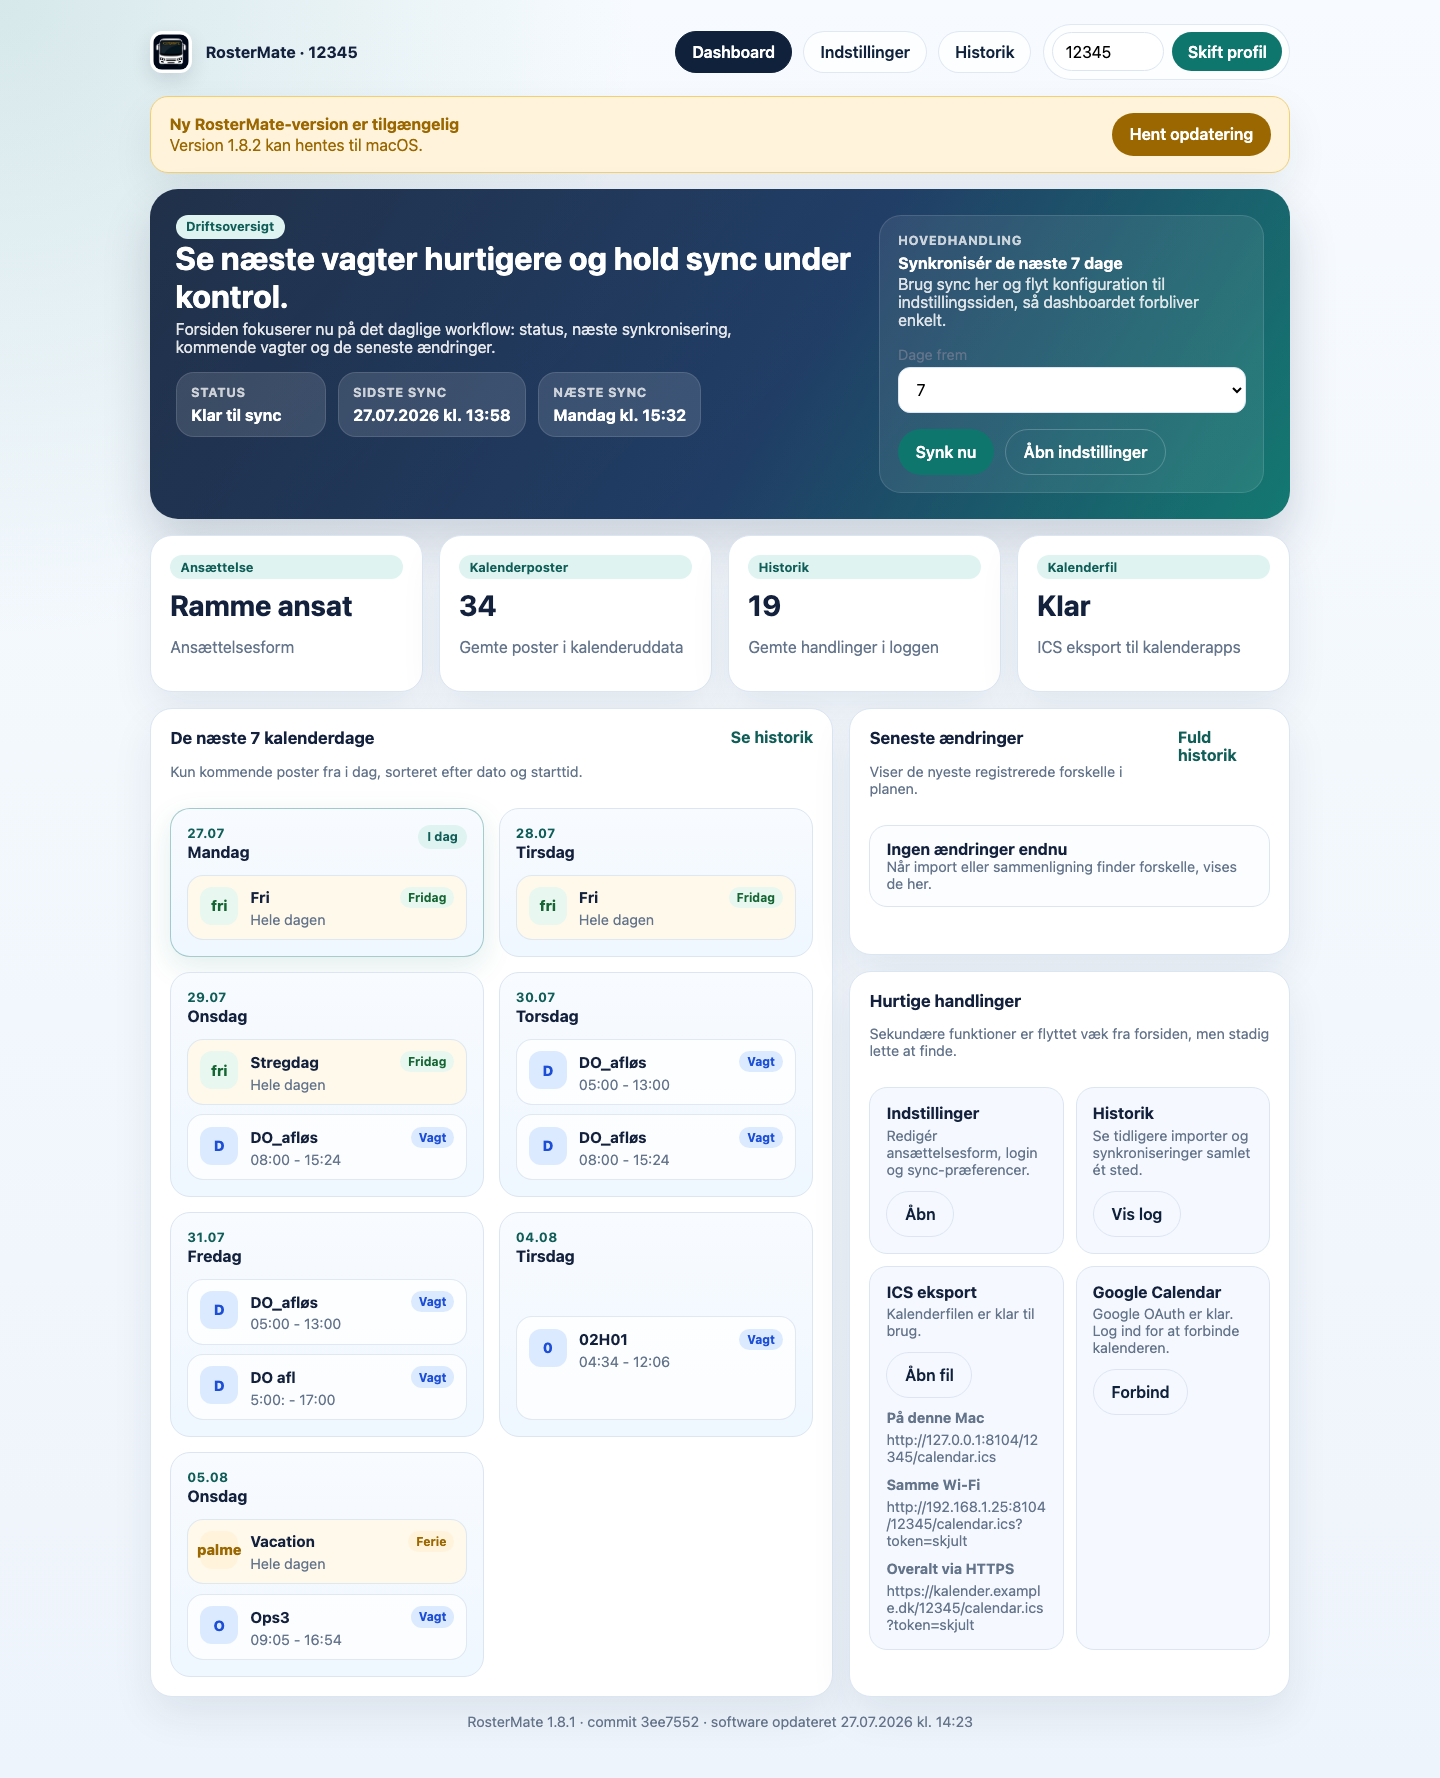
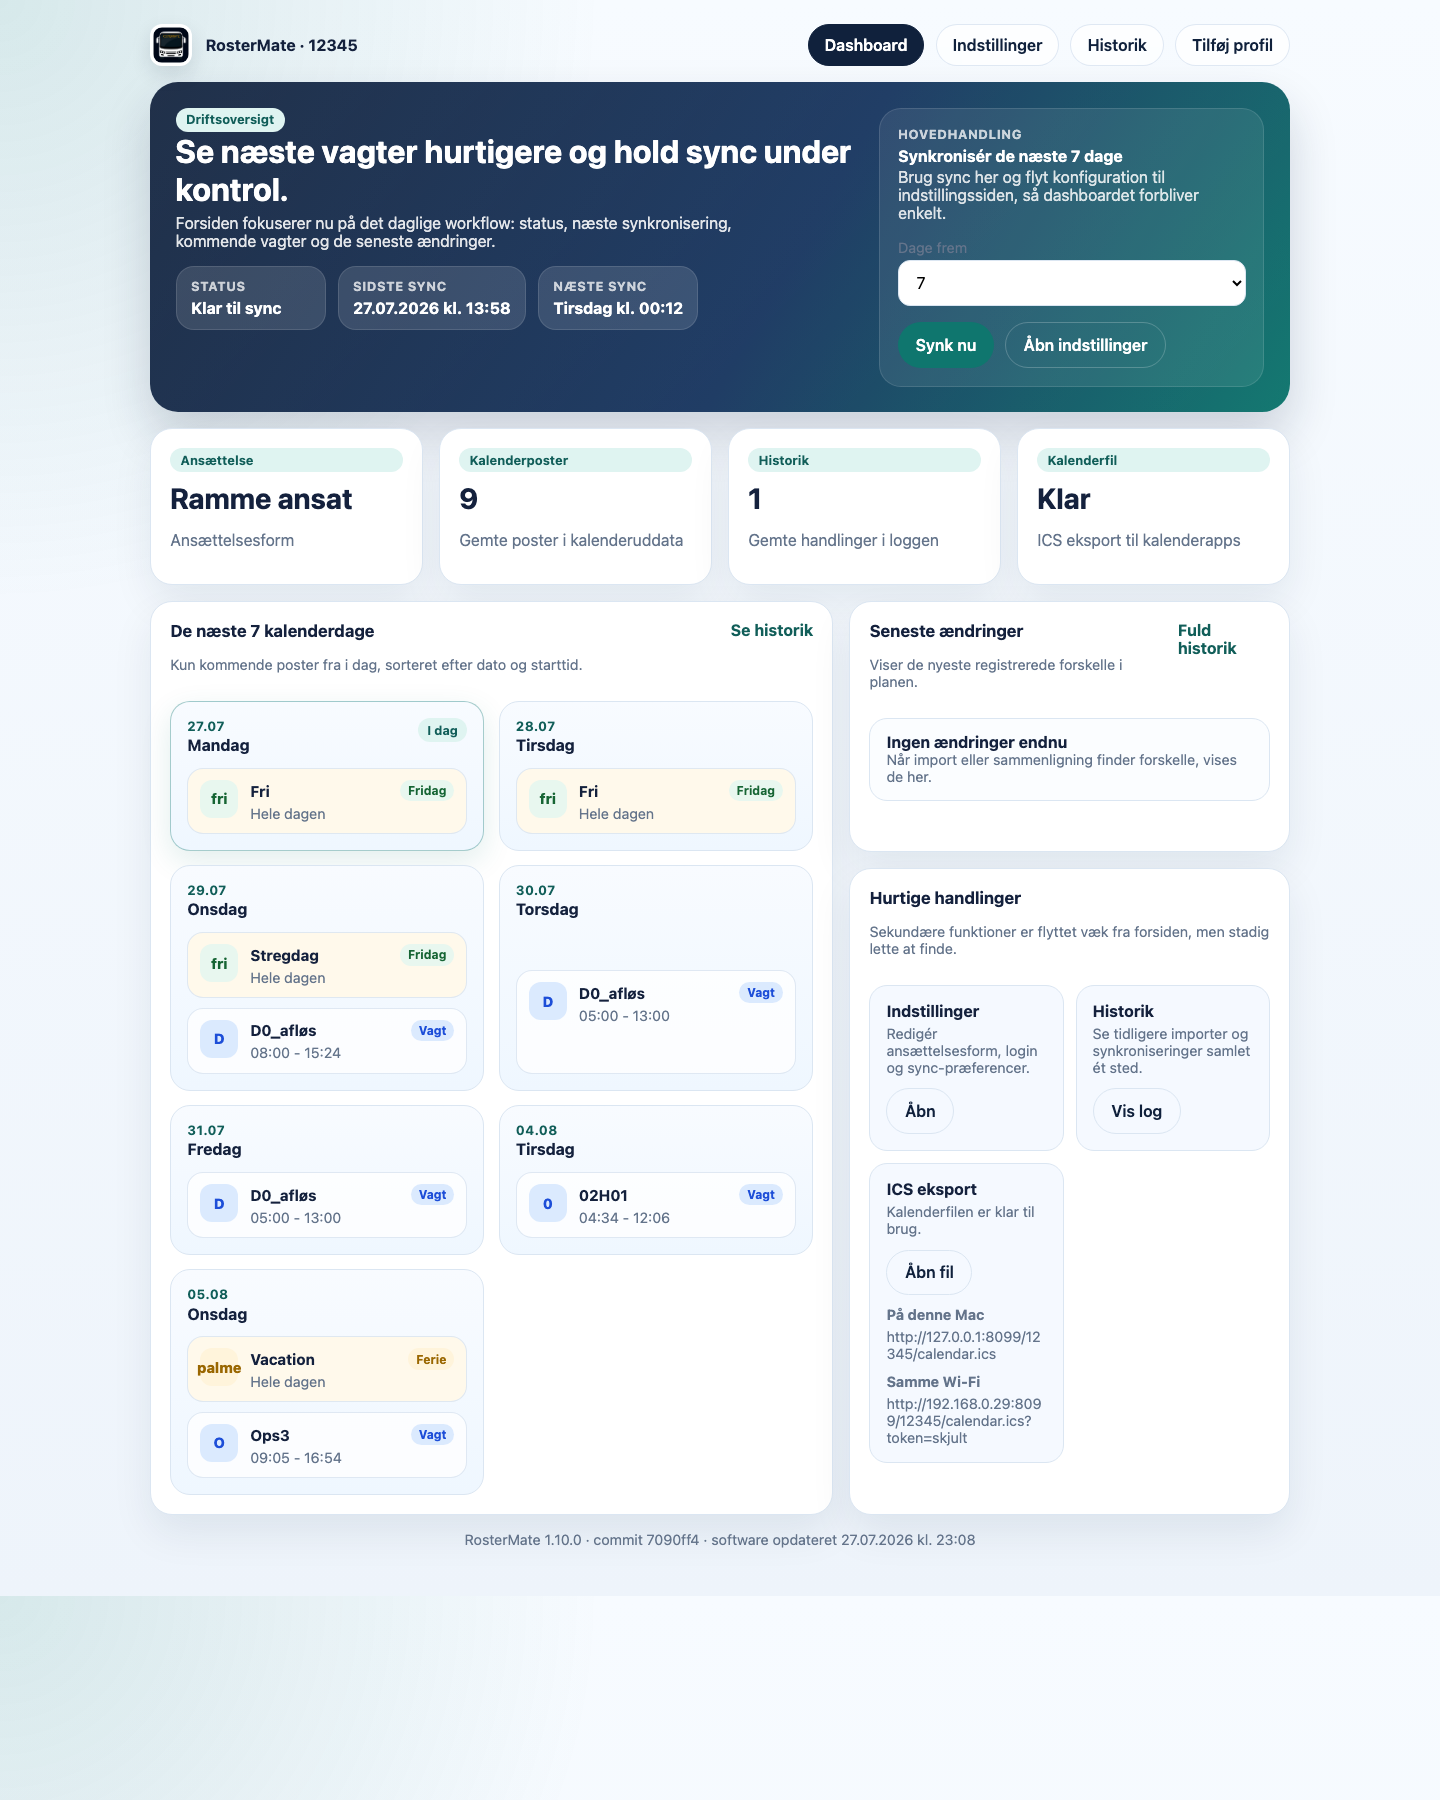
Refresh dashboard screenshot and Windows status

diff --git a/README.md b/README.md
@@ -10,7 +10,7 @@
 
 <p align="center">
   <img src="https://img.shields.io/badge/platform-macOS-blue" alt="macOS">
-  <img src="https://img.shields.io/badge/Windows-beta-0078D4" alt="Windows beta">
+  <img src="https://img.shields.io/badge/platform-Windows-0078D4" alt="Windows">
   <img src="https://img.shields.io/badge/version-1.10.0-00A9CE" alt="Version 1.10.0">
   <img src="https://img.shields.io/badge/license-MIT-red" alt="MIT license">
 </p>
@@ -70,7 +70,7 @@ Herefter kan du synkronisere fra dashboardet. RosterMate forsøger først automa
 
 ### Tilgængeligt nu
 
-- [x] macOS-app og Windows-beta med samme GUI
+- [x] macOS- og Windows-app med samme GUI
 - [x] Guidet og automatisk SelfService-login
 - [x] Synkronisering på tværs af måneder
 - [x] Dashboard, historik og ændringsregistrering
@@ -87,7 +87,6 @@ Herefter kan du synkronisere fra dashboardet. RosterMate forsøger først automa
 - [ ] Bedre backup- og gendannelsesflow
 - [ ] Signeret og notariseret macOS-installationspakke
 - [ ] Digitalt signeret Windows-installationspakke
-- [ ] Stabil Windows-udgave efter bredere test
 
 ### På længere sigt
 
@@ -98,7 +97,7 @@ Herefter kan du synkronisere fra dashboardet. RosterMate forsøger først automa
 ## Hent RosterMate
 
 - [RosterMate 1.10.0 til macOS](https://github.com/Danish-Busdriver/rostermate/releases/latest/download/RosterMate-1.10.0-macOS.pkg)
-- [RosterMate 1.10.0 til Windows (beta)](https://github.com/Danish-Busdriver/rostermate/releases/latest/download/RosterMate-1.10.0-Windows-Setup.exe)
+- [RosterMate 1.10.0 til Windows](https://github.com/Danish-Busdriver/rostermate/releases/latest/download/RosterMate-1.10.0-Windows-Setup.exe)
 
 Teknisk installation, fejlfinding og afinstallation findes i de separate vejledninger:
 

diff --git a/docs/INSTALL_WINDOWS.md b/docs/INSTALL_WINDOWS.md
@@ -1,6 +1,6 @@
 # Installation på Windows
 
-Windows-udgaven bruger samme dashboard, SelfService-synkronisering, profiler, historik og kalenderfunktioner som macOS-udgaven. Installationsflowet er i beta, fordi det endnu ikke er pakket som en signeret `.exe`- eller `.msi`-installer.
+Windows-udgaven bruger samme dashboard, SelfService-synkronisering, profiler, historik og kalenderfunktioner som macOS-udgaven. Den leveres som en direkte `Setup.exe`, der installerer de nødvendige komponenter.
 
 ## Systemkrav
 
@@ -149,11 +149,11 @@ Kør den platformfælles testpakke:
 .\.venv\Scripts\python.exe -m pytest -q
 ```
 
-## Kendte beta-begrænsninger
+## Kendte begrænsninger
 
 - Setup.exe er endnu ikke digitalt signeret, så SmartScreen kan vise en advarsel.
 - SmartScreen kan advare om de lokale scripts.
-- Windows-scripts og Task Scheduler-kommandoer er dækket af automatiske tests, men skal release-testes på rigtig Windows-hardware før en stabil Windows-udgivelse.
+- Windows-scripts og Task Scheduler-kommandoer er dækket af automatiske platformstests. Installationspakken bør fortsat kontrolleres i et rent Windows-miljø før hver udgivelse.
 
 ## Lokale loginoplysninger
 
